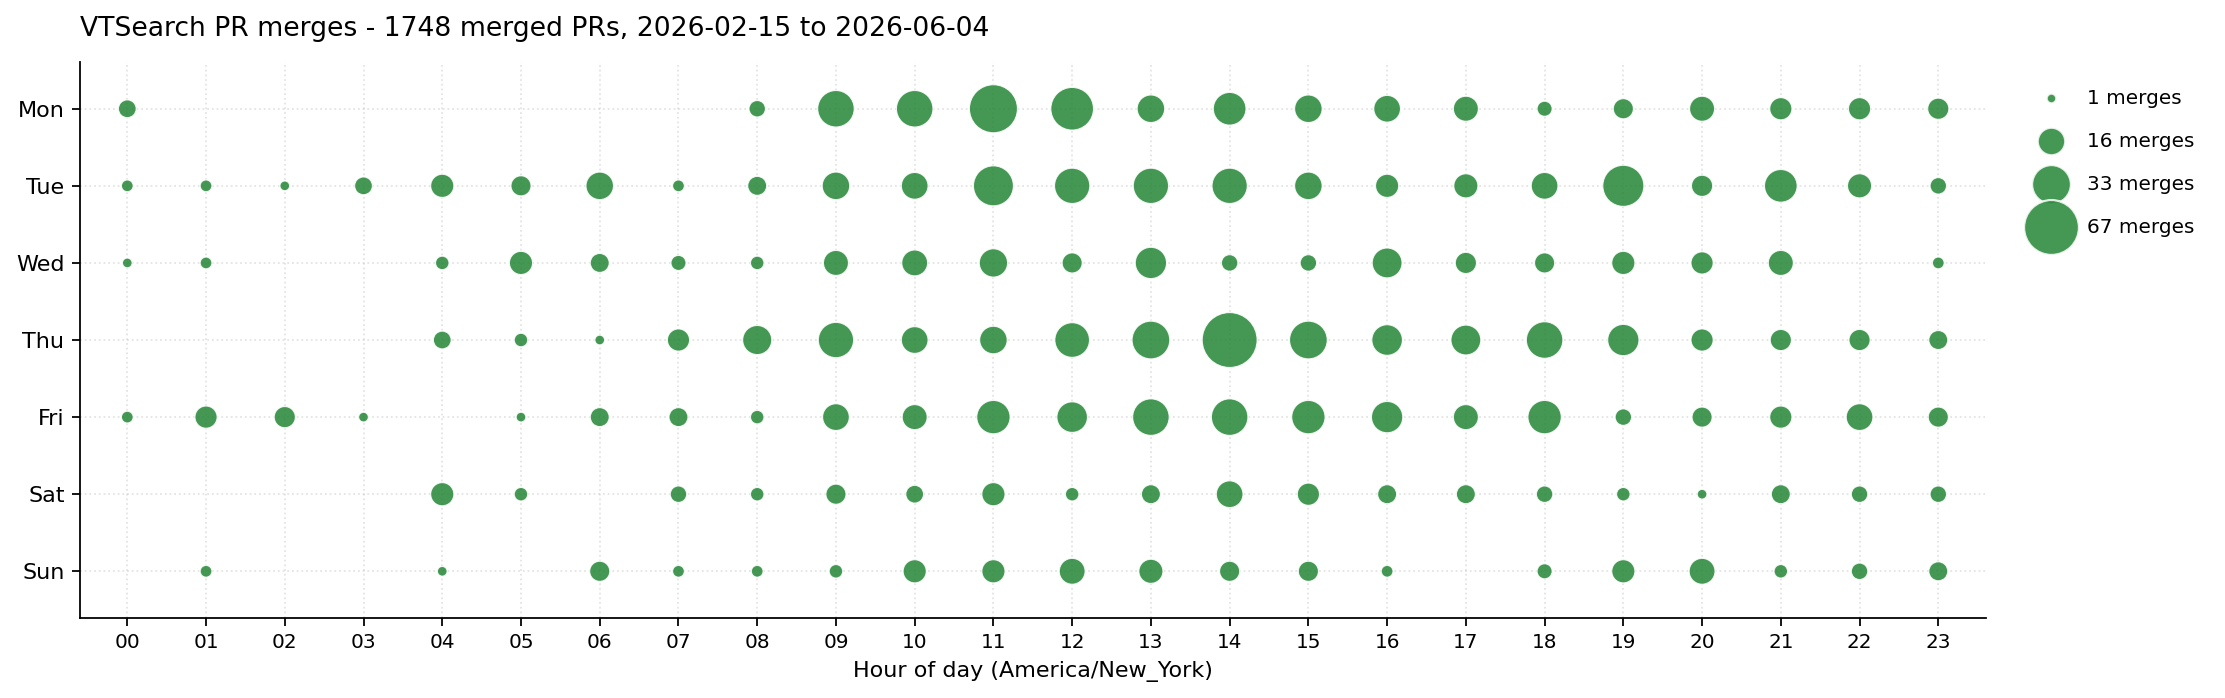
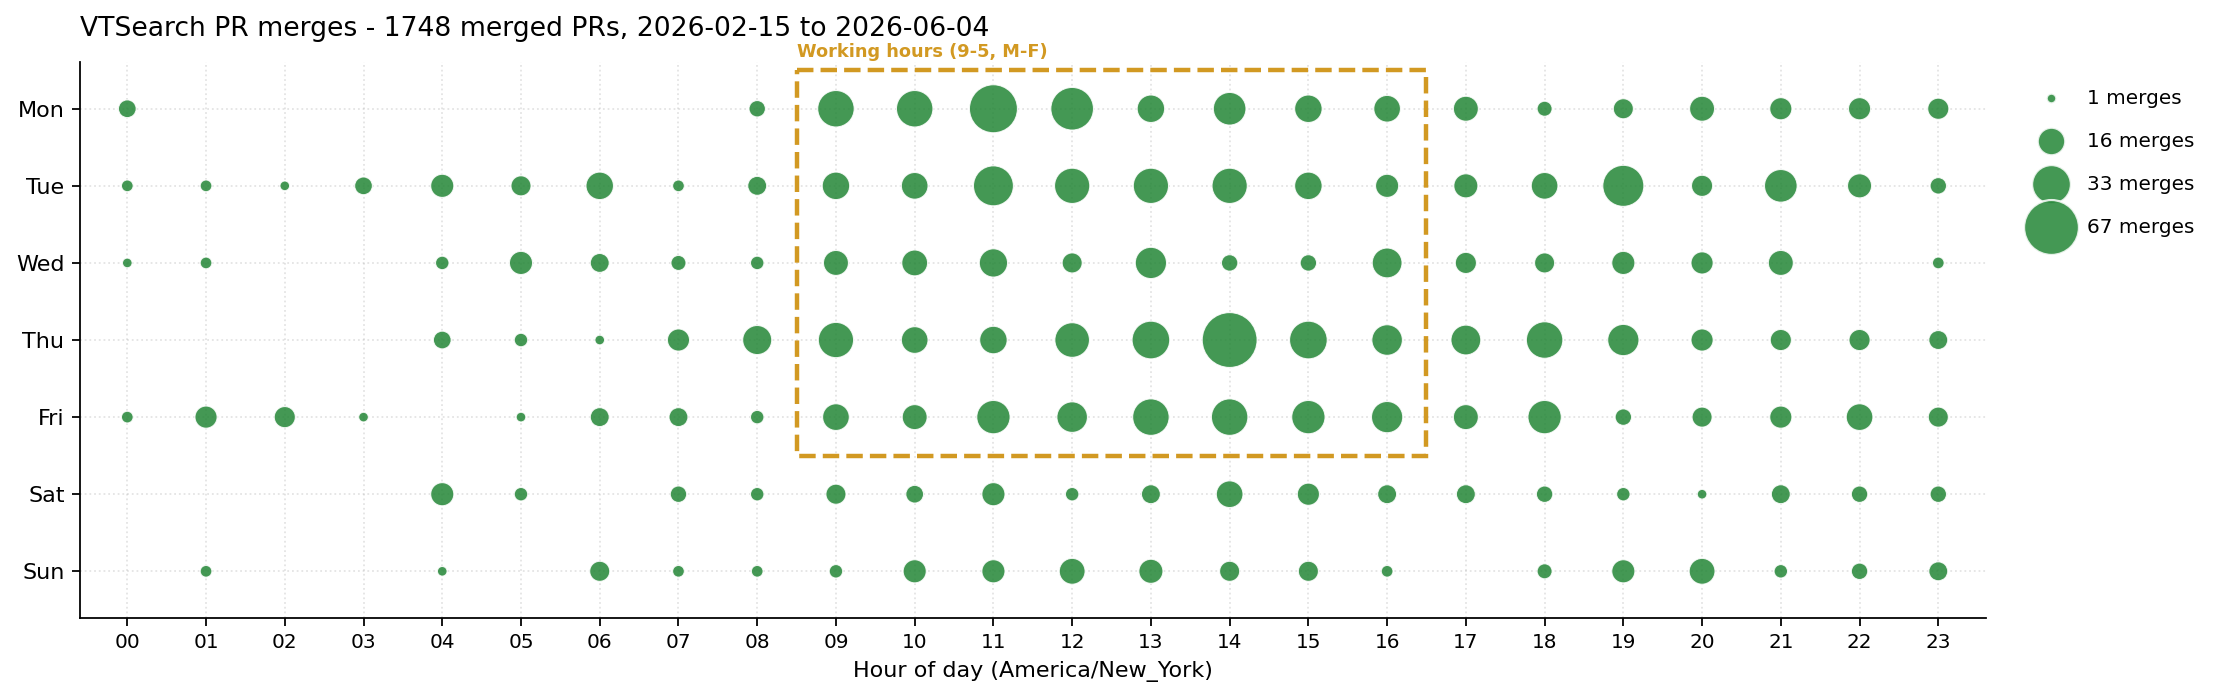
Draw working-hours box (9-5 M-F) on PR punch card

Changed region(s): [[0.3411, 0.0602, 0.6512, 0.1203], [0.3411, 0.6318, 0.6512, 0.6619]]

diff --git a/scripts/punchcard/punchcard.py b/scripts/punchcard/punchcard.py
@@ -19,6 +19,7 @@ from zoneinfo import ZoneInfo
 
 import matplotlib.pyplot as plt
 import numpy as np
+from matplotlib.patches import Rectangle
 
 LOCAL_TZ = ZoneInfo("America/New_York")
 WEEKDAY_LABELS = ["Mon", "Tue", "Wed", "Thu", "Fri", "Sat", "Sun"]
@@ -54,6 +55,33 @@ for d in range(7):
         xs.append(h)
         ys.append(d)
         sizes.append(c / max_count * 600 + 10)
+
+# Highlight standard working hours: 09:00-17:00, Mon-Fri.
+# Hour bucket h is centered at x=h and spans [h, h+1); the 09:00-17:00 window
+# covers buckets 9..16, so the box edges sit at x=8.5 and x=16.5. Mon-Fri are
+# rows 0..4 (Mon=0 at top after invert_yaxis), so y edges sit at -0.5 and 4.5.
+working_box = Rectangle(
+    (8.5, -0.5),
+    16.5 - 8.5,
+    4.5 - (-0.5),
+    fill=False,
+    edgecolor="#d29922",
+    linewidth=2.0,
+    linestyle="--",
+    zorder=5,
+)
+ax.add_patch(working_box)
+ax.annotate(
+    "Working hours (9-5, M-F)",
+    xy=(8.5, -0.5),
+    xytext=(0, 4),
+    textcoords="offset points",
+    fontsize=8,
+    color="#d29922",
+    fontweight="bold",
+    ha="left",
+    va="bottom",
+)
 
 ax.scatter(xs, ys, s=sizes, color="#238636", alpha=0.85, edgecolors="white", linewidths=0.5)
 
